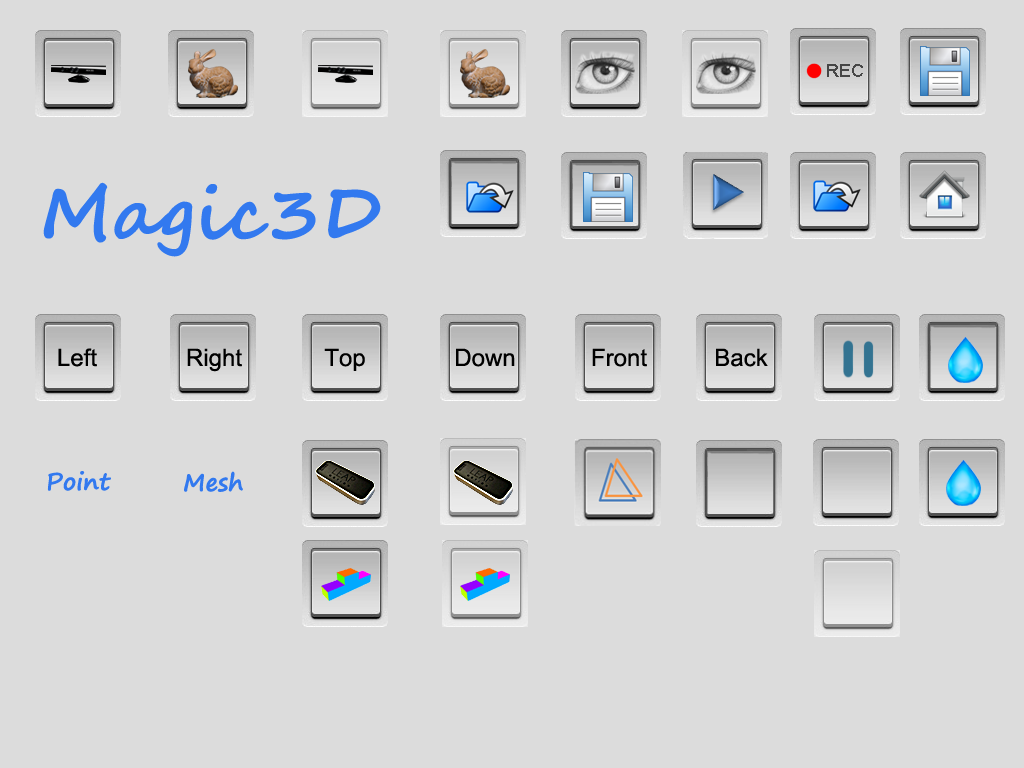
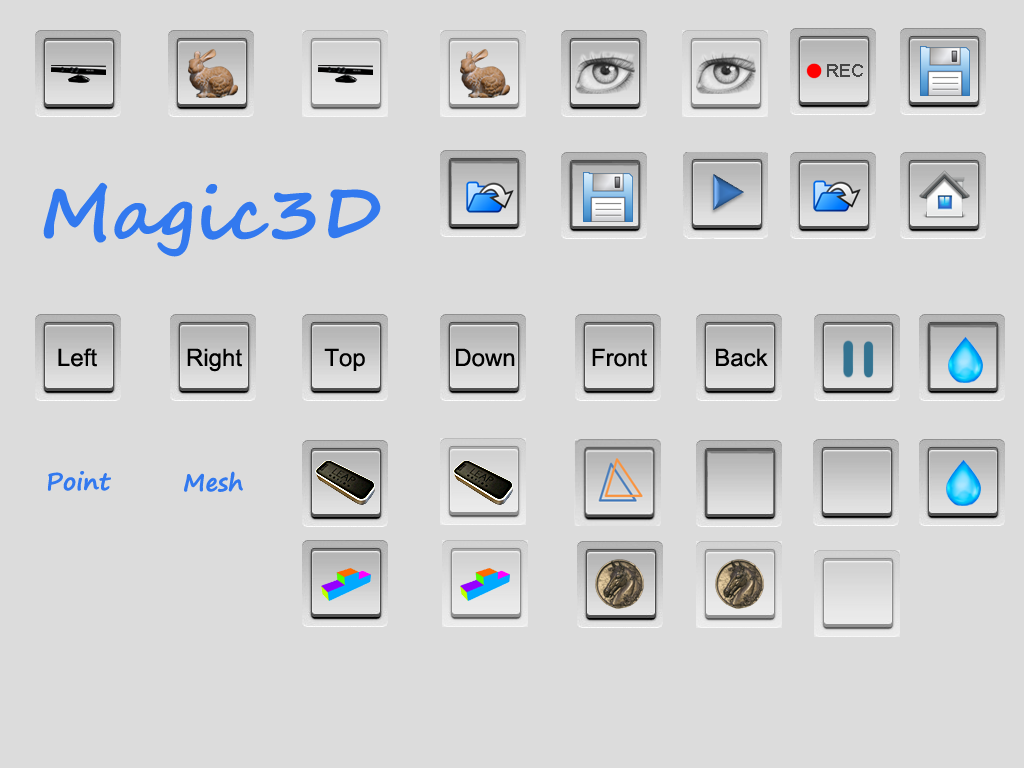
Update
git-svn-id: https://svn.code.sf.net/p/magic3d/code@132 a8a6288e-d8c0-45b0-ada2-d6b58351e259

Changed region(s): [[0.5625, 0.6875, 0.6562, 0.8125], [0.6875, 0.6875, 0.75, 0.8125]]

diff --git a/Src/Application/ReliefAppUI.cpp b/Src/Application/ReliefAppUI.cpp
@@ -1,4 +1,8 @@
 #include "ReliefAppUI.h"
+#include "../Common/LogSystem.h"
+#include "../Common/ResourceManager.h"
+#include "../Common/AppManager.h"
+#include "ReliefApp.h"
 
 namespace MagicApp
 {
@@ -12,11 +16,40 @@ namespace MagicApp
 
     void ReliefAppUI::Setup()
     {
-
+        MagicCore::ResourceManager::GetSingleton()->LoadResource("../../Media/ReliefApp", "FileSystem", "ReliefApp");
+        mRoot = MyGUI::LayoutManager::getInstance().loadLayout("ReliefApp.layout");
+        mRoot.at(0)->findWidget("But_Open")->castType<MyGUI::Button>()->eventMouseButtonClick += MyGUI::newDelegate(this, &ReliefAppUI::OpenPointCloud);
+        mRoot.at(0)->findWidget("But_Open")->castType<MyGUI::Button>()->setSize(86, 86);
+        mRoot.at(0)->findWidget("But_Relief")->castType<MyGUI::Button>()->eventMouseButtonClick += MyGUI::newDelegate(this, &ReliefAppUI::GenerateRelief);
+        mRoot.at(0)->findWidget("But_Relief")->castType<MyGUI::Button>()->setSize(86, 86);
+        mRoot.at(0)->findWidget("But_Home")->castType<MyGUI::Button>()->eventMouseButtonClick += MyGUI::newDelegate(this, &ReliefAppUI::BackHome);
+        mRoot.at(0)->findWidget("But_Home")->castType<MyGUI::Button>()->setSize(86, 86);
     }
 
     void ReliefAppUI::Shutdown()
     {
+        MagicLog << "ReliefAppUI::Shutdown" << std::endl;
+        MyGUI::LayoutManager::getInstance().unloadLayout(mRoot);
+        mRoot.clear();
+        MagicCore::ResourceManager::GetSingleton()->UnloadResource("ReliefApp");
+    }
 
+    void ReliefAppUI::OpenPointCloud(MyGUI::Widget* pSender)
+    {
+        ReliefApp* pRelief = dynamic_cast<ReliefApp* >(MagicCore::AppManager::GetSingleton()->GetApp("ReliefApp"));
+        if (pRelief != NULL)
+        {
+            pRelief->ImportPointSet();
+        }
+    }
+
+    void ReliefAppUI::GenerateRelief(MyGUI::Widget* pSender)
+    {
+
+    }
+
+    void ReliefAppUI::BackHome(MyGUI::Widget* pSender)
+    {
+        MagicCore::AppManager::GetSingleton()->SwitchCurrentApp("Homepage");
     }
 }

diff --git a/Src/Application/ReliefApp.cpp b/Src/Application/ReliefApp.cpp
@@ -1,15 +1,23 @@
 #include "ReliefApp.h"
 #include "../Common/LogSystem.h"
 #include "../Common/RenderSystem.h"
+#include "../Common/ToolKit.h"
+#include "../DGP/Parser.h"
 
 namespace MagicApp
 {
-    ReliefApp::ReliefApp ()
+    ReliefApp::ReliefApp() : 
+        mpPointSet(NULL)
     {
     }
 
-    ReliefApp::~ReliefApp ()
+    ReliefApp::~ReliefApp()
     {
+        if (mpPointSet != NULL)
+        {
+            delete mpPointSet;
+            mpPointSet = NULL;
+        }
     }
 
     bool ReliefApp::Enter(void)
@@ -66,6 +74,37 @@ namespace MagicApp
         Ogre::SceneManager* pSceneMgr = MagicCore::RenderSystem::GetSingleton()->GetSceneManager();
         pSceneMgr->setAmbientLight(Ogre::ColourValue::Black);
         pSceneMgr->destroyLight("SimpleLight");
+        MagicCore::RenderSystem::GetSingleton()->SetupCameraDefaultParameter();
+        MagicCore::RenderSystem::GetSingleton()->HideRenderingObject("RenderOBJ");
         MagicCore::RenderSystem::GetSingleton()->GetSceneManager()->getRootSceneNode()->resetToInitialState();
+    }
+
+    bool ReliefApp::ImportPointSet()
+    {
+        std::string fileName;
+        char filterName[] = "OBJ Files(*.obj)\0*.obj\0";
+        if (MagicCore::ToolKit::GetSingleton()->FileOpenDlg(fileName, filterName))
+        {
+            MagicDGP::Point3DSet* pPointSet = MagicDGP::Parser::ParsePointSet(fileName);
+            if (pPointSet != NULL)
+            {
+                pPointSet->UnifyPosition(2.0);
+                if (mpPointSet != NULL)
+                {
+                    delete mpPointSet;
+                }
+                mpPointSet = pPointSet;
+                MagicCore::RenderSystem::GetSingleton()->RenderPoint3DSet("RenderOBJ", "SimplePoint", mpPointSet);
+                return true;
+            }
+            else
+            {
+                return false;
+            }
+        }
+        else
+        {
+            return false;
+        }
     }
 }

diff --git a/Src/Application/ReliefApp.h b/Src/Application/ReliefApp.h
@@ -2,6 +2,7 @@
 #include "../Common/AppBase.h"
 #include "ReliefAppUI.h"
 #include "../Tool/ViewTool.h"
+#include "../DGP/PointCloud3D.h"
 
 namespace MagicApp
 {
@@ -18,6 +19,8 @@ namespace MagicApp
         virtual bool MousePressed( const OIS::MouseEvent &arg, OIS::MouseButtonID id );
         virtual bool MouseReleased( const OIS::MouseEvent &arg, OIS::MouseButtonID id );
 
+        bool ImportPointSet();
+
     private:
         void SetupScene(void);
         void ShutdownScene(void);
@@ -25,5 +28,6 @@ namespace MagicApp
     private:
         ReliefAppUI mUI;
         MagicTool::ViewTool mViewTool;
+        MagicDGP::Point3DSet* mpPointSet;
     };
 }

diff --git a/Src/Application/ReliefAppUI.h b/Src/Application/ReliefAppUI.h
@@ -13,6 +13,11 @@ namespace MagicApp
         void Shutdown();
 
     private:
+        void OpenPointCloud(MyGUI::Widget* pSender);
+        void GenerateRelief(MyGUI::Widget* pSender);
+        void BackHome(MyGUI::Widget* pSender);
+
+    private:
         MyGUI::VectorWidgetPtr mRoot;
     };
 }
